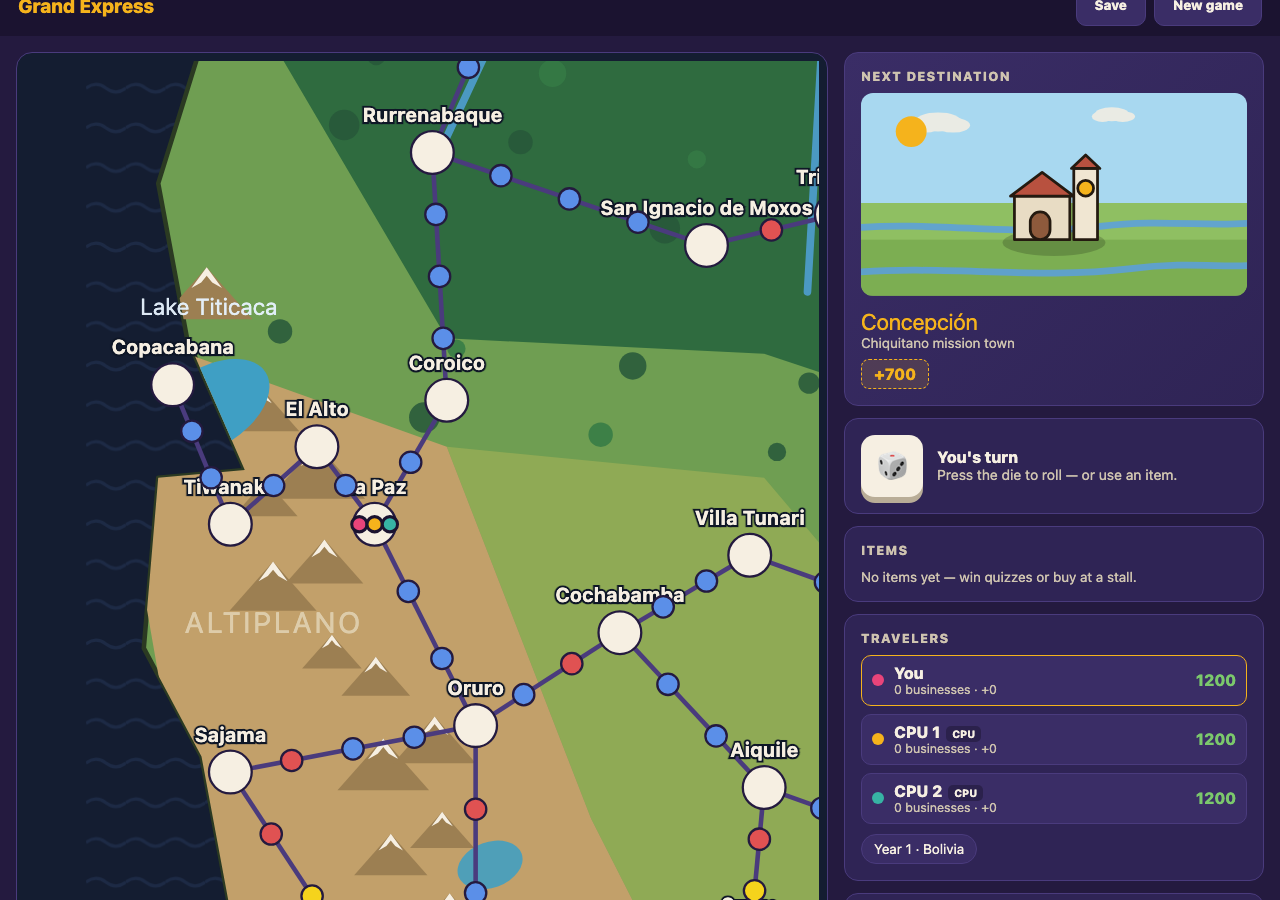
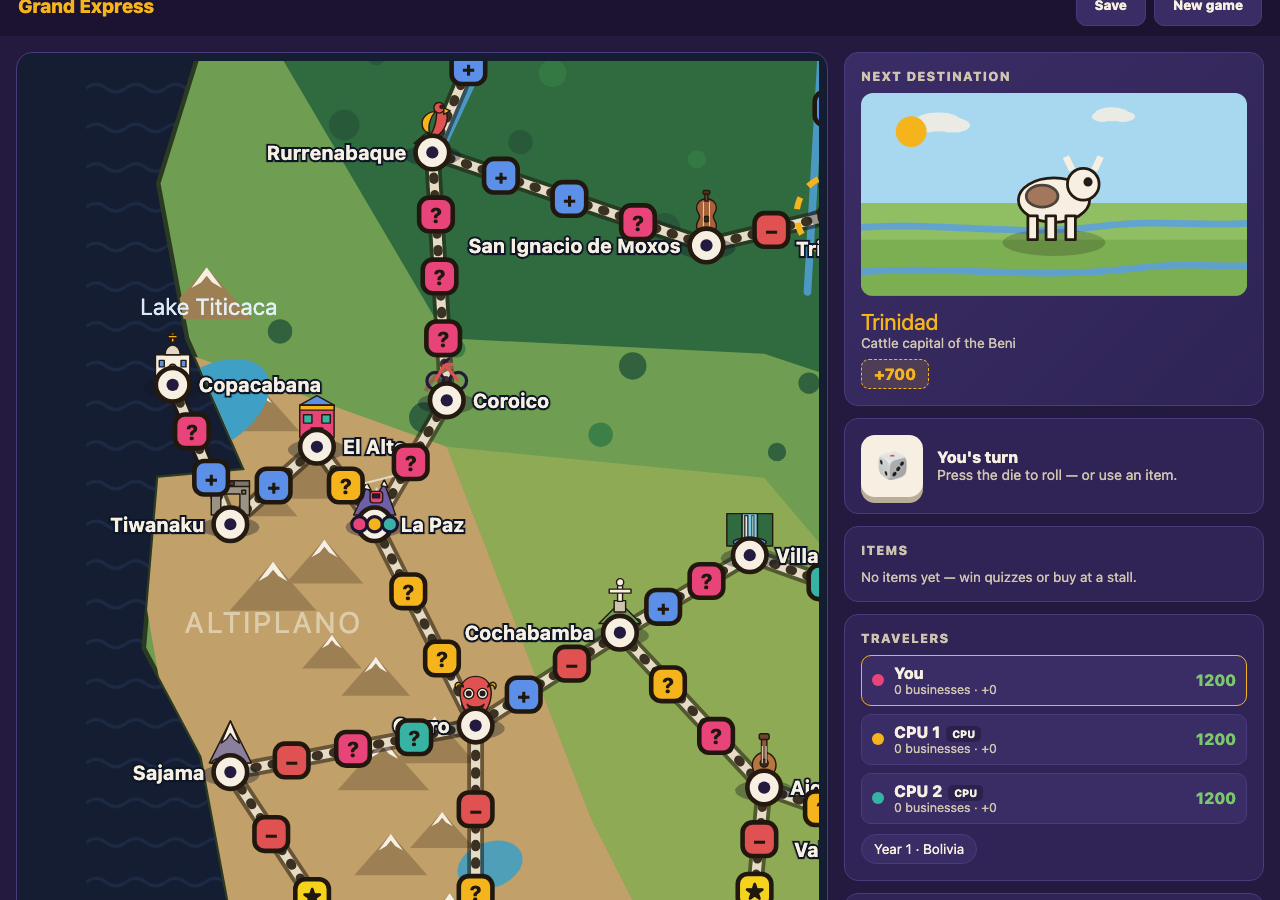
feat(presentation): 路線の3層描画と盤面上の都市シンボルを移植
Phase 8に残っていた盤面の細部をlegacyに合わせた。

- 路線: 暗い縁取り(#20180f, 11px, 透過.55)→明るいレール(#e6dcc6, 6px)→
  枕木のダッシュ(#3b3123, 6px, dasharray "1.5 10")の3層。legacyは路線1本ずつ
  3層を重ねるが、こちらは層ごとにまとめて描くことで、隣接する路線の縁取りが
  手前の路線を欠けさせないようにしている(合流点は都市のシンボルが上に載るため
  見た目の差は出ない)
- 都市ノード: 影の楕円→シンボル(marks を1.25倍)→円(r=11)→中心の点(r=4)→
  目的地リング→都市名ラベル。ラベルの左/右/下の出し分けのため City.labelPosition
  (legacyの city.lp)をスキーマ/ドメイン/マッパーに追加した
- 中間マス: 角丸の四角(22x22, rx=6.5)+記号(+ / − / ★ / ?)。クイズマスは
  難易度別の色(low=#37b3a4, mid=#f5b31c, high=#e8447a)

描画結果はスクリーンショットで目視確認し、docs/90-migration/assets/new-board.png を
更新した(枕木のあるレール、大聖堂・チョレット・ケーブルカー等の都市シンボル、
難易度別に色分けされたクイズマスがlegacy同様に出ることを確認)。

未実装: 盤面右下の凡例。

typecheck/lint/depcruise/vitest(201件)/playwright(12件)/next build すべて確認済み。

diff --git a/src/presentation/components/board/board-view.tsx b/src/presentation/components/board/board-view.tsx
@@ -3,6 +3,7 @@
 import { useEffect, useMemo, useState } from "react";
 import { NodeId } from "../../../domain/shared-kernel/ids";
 import { isCityNode } from "../../../domain/board/node";
+import { City } from "../../../domain/board/city";
 import { GameSession, currentPlayer } from "../../../domain/game-session/game-session";
 import { GameEngineContext } from "../../../application/game-engine-context";
 import { useBoardLayout } from "../../hooks/use-board-layout";
@@ -11,16 +12,24 @@ import { useLocale } from "../../i18n/locale-context";
 import { TerrainLayer } from "./terrain-layer";
 
 const PLAYER_COLORS = ["#e8447a", "#f5b31c", "#37b3a4", "#7bc86c"];
-const NODE_COLORS: Record<string, string> = {
-  city: "#f6efe2",
-  quiz: "#5b8fe8",
-  blue: "#5b8fe8",
-  red: "#e05252",
-  card: "#f5d31c",
-};
 
 /** 追尾時の視野幅(現行コードの `FOLLOW_W`)。 */
 const FOLLOW_WIDTH = 520;
+
+/** 路線の3層描画(現行コードの `drawBoard` のレール描画と同じ色・線幅)。 */
+const RAIL_LAYERS: readonly { stroke: string; width: number; dash?: string; opacity?: number }[] = [
+  { stroke: "#20180f", width: 11, opacity: 0.55 },
+  { stroke: "#e6dcc6", width: 6 },
+  { stroke: "#3b3123", width: 6, dash: "1.5 10" },
+];
+
+/** 中間マスの色と記号(現行コードの `SQUARE` / `TIER`)。 */
+const SQUARE_STYLES: Record<string, { color: string; glyph: string }> = {
+  blue: { color: "#5b8fe8", glyph: "+" },
+  red: { color: "#e05252", glyph: "−" },
+  card: { color: "#f5d31c", glyph: "★" },
+};
+const TIER_COLORS: Record<string, string> = { low: "#37b3a4", mid: "#f5b31c", high: "#e8447a" };
 
 export interface BoardViewProps {
   context: GameEngineContext;
@@ -78,9 +87,28 @@ export function BoardView({ context, session, reachable, onChooseNode }: BoardVi
     <div style={{ position: "relative" }}>
       <svg viewBox={viewBox} className="board-svg" role="img" aria-label="Game board">
         <TerrainLayer terrain={context.content.terrain} projection={context.content.projection} />
+        {/* 路線。legacyの `drawBoard` と同じく、暗い縁取り→明るいレール→枕木のダッシュ
+            という3層で描く。legacyは路線1本ずつ3層を重ねるが、ここでは層ごとに
+            まとめて描くことで、隣り合う路線の縁取りが手前の路線を欠けさせないようにしている
+            (都市の合流点は都市のシンボルが上に載るため見た目の差は出ない)。 */}
         <g className="edges">
-          {edges.map((line, i) => (
-            <line key={i} x1={line.x1} y1={line.y1} x2={line.x2} y2={line.y2} stroke="#4a3b7d" strokeWidth={3} />
+          {RAIL_LAYERS.map((layer, layerIndex) => (
+            <g key={layerIndex}>
+              {edges.map((line, i) => (
+                <line
+                  key={i}
+                  x1={line.x1}
+                  y1={line.y1}
+                  x2={line.x2}
+                  y2={line.y2}
+                  stroke={layer.stroke}
+                  strokeWidth={layer.width}
+                  strokeLinecap="round"
+                  strokeDasharray={layer.dash}
+                  opacity={layer.opacity}
+                />
+              ))}
+            </g>
           ))}
         </g>
         <g className="nodes">
@@ -89,7 +117,6 @@ export function BoardView({ context, session, reachable, onChooseNode }: BoardVi
             if (!pos) return null;
             const isDestination = isCityNode(node) && node.cityId === session.destination;
             const isChoosable = reachable?.has(id) ?? false;
-            const radius = isCityNode(node) ? 14 : 7;
             return (
               <g
                 key={id}
@@ -97,17 +124,16 @@ export function BoardView({ context, session, reachable, onChooseNode }: BoardVi
                 onClick={isChoosable ? () => onChooseNode?.(id) : undefined}
                 style={{ cursor: isChoosable ? "pointer" : "default" }}
               >
-                {isChoosable && <circle r={radius + 8} className="halo" fill="#f5b31c" opacity={0.6} />}
-                <circle
-                  r={radius}
-                  fill={NODE_COLORS[node.type] ?? "#888"}
-                  stroke={isDestination ? "#f5b31c" : "#241a3f"}
-                  strokeWidth={isDestination ? 4 : 1.5}
-                />
-                {isCityNode(node) && (
-                  <text y={-radius - 6} textAnchor="middle" className="city-label">
-                    {tx(context.getCity(node.cityId).name)}
-                  </text>
+                {isChoosable && <circle r={20} className="halo" fill="#f5b31c" opacity={0.6} />}
+                {isCityNode(node) ? (
+                  <CityMarker
+                    city={context.getCity(node.cityId)}
+                    glyphSvg={context.content.artGlyphs[context.getCity(node.cityId).artGlyphKey] ?? ""}
+                    label={tx(context.getCity(node.cityId).name)}
+                    isDestination={isDestination}
+                  />
+                ) : (
+                  <SquareMarker type={node.type} tier={node.type === "quiz" ? node.tier : undefined} />
                 )}
               </g>
             );
@@ -145,5 +171,71 @@ export function BoardView({ context, session, reachable, onChooseNode }: BoardVi
         🗺
       </button>
     </div>
+  );
+}
+
+/**
+ * 盤面上の都市マーカー(legacyの `drawBoard` の city ノード描画)。
+ * 影の楕円 → 都市のシンボル(1.25倍) → 円 → 中心の点 → 目的地リング → 都市名
+ * という重ね順・座標・色はlegacyと同じ。
+ */
+function CityMarker({
+  city,
+  glyphSvg,
+  label,
+  isDestination,
+}: {
+  city: City;
+  glyphSvg: string;
+  label: string;
+  isDestination: boolean;
+}) {
+  const scale = 1.25;
+  const glyphWidth = 24 * scale;
+  const labelX = city.labelPosition === "left" ? -17 : city.labelPosition === "right" ? 17 : 0;
+  const labelY = city.labelPosition === "bottom" ? 27 : 5;
+  const anchor = city.labelPosition === "left" ? "end" : city.labelPosition === "right" ? "start" : "middle";
+
+  return (
+    <>
+      <ellipse cx={0} cy={2} rx={19} ry={7} fill="#0e1626" opacity={0.35} />
+      <g
+        transform={`translate(${-glyphWidth / 2},${-6 - 24 * scale}) scale(${scale})`}
+        stroke="#241a10"
+        strokeWidth={0.75}
+        strokeLinejoin="round"
+        dangerouslySetInnerHTML={{ __html: glyphSvg }}
+      />
+      <circle r={11} fill="#f6efe2" stroke="#241a10" strokeWidth={3} />
+      <circle r={4} fill="#241a3f" />
+      {isDestination && (
+        <circle r={26} fill="none" stroke="#f5b31c" strokeWidth={4} strokeDasharray="8 9" className="dest-ring" />
+      )}
+      <text className="city-label" x={labelX} y={labelY} textAnchor={anchor}>
+        {label}
+      </text>
+    </>
+  );
+}
+
+/** 中間マス(クイズ/青/赤/カード)のマーカー(legacyの `SQUARE`/`TIER` の描画)。 */
+function SquareMarker({ type, tier }: { type: string; tier?: string }) {
+  const style = SQUARE_STYLES[type];
+  const color = type === "quiz" ? (TIER_COLORS[tier ?? "low"] ?? "#37b3a4") : (style?.color ?? "#888");
+  const glyph = type === "quiz" ? "?" : (style?.glyph ?? "");
+  return (
+    <>
+      <rect x={-11} y={-11} width={22} height={22} rx={6.5} fill={color} stroke="#20180f" strokeWidth={3} />
+      <text
+        y={5.5}
+        textAnchor="middle"
+        fontSize={type === "quiz" ? 14 : 13}
+        fontWeight={800}
+        fill="#20180f"
+        style={{ pointerEvents: "none" }}
+      >
+        {glyph}
+      </text>
+    </>
   );
 }

diff --git a/src/domain/board/city.ts b/src/domain/board/city.ts
@@ -21,6 +21,8 @@ export interface City {
   readonly artSceneKey: string;
   /** 都市イラストのシンボルのキー(現行コードの `city.mark`)。 */
   readonly artGlyphKey: string;
+  /** 盤面上の都市名ラベルの位置(現行コードの `city.lp`)。 */
+  readonly labelPosition: "left" | "right" | "bottom";
 }
 
 /** 都市間を結ぶ路線。 */

diff --git a/src/infrastructure/content/raw-content-schema.ts b/src/infrastructure/content/raw-content-schema.ts
@@ -26,6 +26,8 @@ const RawCitySchema = z.object({
   bg: z.string(),
   /** 都市イラストのシンボル(グリフ)のキー(`marks` の要素を指す)。 */
   mark: z.string(),
+  /** 盤面上の都市名ラベルの位置("l"=左 / "r"=右 / それ以外=下)。 */
+  lp: z.string().optional(),
 });
 
 const RawItemSchema = z.object({

diff --git a/src/domain/property/property-income-service.test.ts b/src/domain/property/property-income-service.test.ts
@@ -68,6 +68,7 @@ function city(id: string, regionId: string, props: Array<[number, number]>): Cit
     fact: sameForAllLocales(""),
     artSceneKey: "scene",
     artGlyphKey: "glyph",
+    labelPosition: "bottom" as const,
     properties: props.map(([cost, income]) => ({ name: sameForAllLocales("p"), cost, income })),
   };
 }

diff --git a/src/domain/cpu/cpu-city-strategy.test.ts b/src/domain/cpu/cpu-city-strategy.test.ts
@@ -30,6 +30,7 @@ function city(): City {
     fact: sameForAllLocales(""),
     artSceneKey: "scene",
     artGlyphKey: "glyph",
+    labelPosition: "bottom" as const,
     properties: [
       { name: sameForAllLocales("p0"), cost: 300, income: 40 },
       { name: sameForAllLocales("p1"), cost: 300, income: 40 },

diff --git a/src/infrastructure/content/country-content-mapper.ts b/src/infrastructure/content/country-content-mapper.ts
@@ -33,6 +33,7 @@ function mapCities(raw: RawCountryContent): City[] {
     properties: city.props.map((p) => ({ name: p.n, cost: p.cost, income: p.inc })),
     artSceneKey: city.bg,
     artGlyphKey: city.mark,
+    labelPosition: city.lp === "l" ? "left" : city.lp === "r" ? "right" : "bottom",
   }));
 }
 

diff --git a/src/domain/cpu/cpu-move-strategy.test.ts b/src/domain/cpu/cpu-move-strategy.test.ts
@@ -42,6 +42,7 @@ function city(id: string, cost: number): City {
     fact: sameForAllLocales(""),
     artSceneKey: "scene",
     artGlyphKey: "glyph",
+    labelPosition: "bottom" as const,
     properties: [{ name: sameForAllLocales("p"), cost, income: 10 }],
   };
 }

diff --git a/src/domain/board/board-graph-builder.test.ts b/src/domain/board/board-graph-builder.test.ts
@@ -21,6 +21,7 @@ function city(
     fact: sameForAllLocales(""),
     artSceneKey: "scene",
     artGlyphKey: "glyph",
+    labelPosition: "bottom" as const,
     properties: [],
   };
 }

diff --git a/docs/90-migration/03-as-built-status.md b/docs/90-migration/03-as-built-status.md
@@ -25,7 +25,7 @@ WBS([02-wbs.md](./02-wbs.md))の各フェーズに対する実際の実施結果
 
 | # | 完了の定義 | 状況 |
 |---|---|---|
-| 1 | 現行の全機能(2ヶ国・4言語・全アイテム/クイズ/季節イベント/厄災効果)が新アプリで再現できている | 🔶 **機能・音・ダイス演出はほぼ達成**: 2ヶ国の実データ(都市30・アイテム9・クイズ・季節12・厄災7)、4言語、全ゲームメカニクス(移動・売買・クイズ・アイテム効果・厄災・CPU)、legacyの音楽エンジン・3Dダイス物理演出をフル移植済み。**視覚面もほぼ達成**(都市の手描きイラスト・盤面の地形・国選択カードの地図をすべて移植済み。未実装は路線の3層描画と盤面上の都市シンボルのみ。ダイスの「タップして止める」インタラクションは省略し固定尺のアニメーションで代替) |
+| 1 | 現行の全機能(2ヶ国・4言語・全アイテム/クイズ/季節イベント/厄災効果)が新アプリで再現できている | 🔶 **機能・音・ダイス演出はほぼ達成**: 2ヶ国の実データ(都市30・アイテム9・クイズ・季節12・厄災7)、4言語、全ゲームメカニクス(移動・売買・クイズ・アイテム効果・厄災・CPU)、legacyの音楽エンジン・3Dダイス物理演出をフル移植済み。**視覚面もほぼ達成**(都市の手描きイラスト・盤面の地形・国選択カードの地図をすべて移植済み。未実装は盤面右下の凡例のみ。ダイスの「タップして止める」インタラクションは省略し固定尺のアニメーションで代替) |
 | 2 | Domain/Application層のユニットテストがカバレッジ目標を満たしている | ✅ 達成(Domain/Application共に目標超過、全体91%超) |
 | 3 | E2Eのクリティカルユーザージャーニーがすべてグリーン | 🔶 **12件のE2Eは全てグリーン**。ただしテスト戦略で列挙した8シナリオのうち、物件購入/クイズ正誤/独占達成/厄災発動/ゲーム終了の詳細シナリオは、真のE2E(Playwrightでの決定的な再現)ではなく**実データを使ったユニット/統合テスト**でカバーしている(理由: 本番の乱数注入はセキュリティ/保守性上のリスクがあるため導入を見送った。詳細はテストファイルのコメント参照)。実際の乱数を使った「稼働テスト」でこれらのマス種別を実際に踏むことは確認済み |
 | 4 | `legacy/grand-express.html` を参照しなくても新規機能追加ができる状態 | ✅ 達成(本ドキュメント一式・ADR・テストが仕様として機能する) |
@@ -59,6 +59,13 @@ WBS([02-wbs.md](./02-wbs.md))の各フェーズに対する実際の実施結果
 
 ## 既知のフォローアップ項目
 
+- ~~路線の3層描画と盤面上の都市ノードのシンボルが未実装~~ → **対応済み(2026-08-05)**。
+  路線は暗い縁取り→明るいレール→枕木のダッシュの3層(legacyは路線1本ずつ3層を重ねるが、
+  こちらは層ごとにまとめて描くことで隣接路線が手前の路線を欠けさせないようにしている。
+  合流点は都市のシンボルが上に載るため見た目の差は出ない)。都市ノードは影+シンボル+円+
+  中心の点+目的地リング+ラベル(`City.labelPosition` により左/右/下)、中間マスは
+  角丸の四角+記号(`+`/`−`/`★`/`?`、クイズは難易度別の色)で、いずれもlegacyと同じ
+  色・寸法で描く。**未実装**: 盤面右下の凡例。
 - ~~盤面の地形イラストと国選択カードの地図が未実装~~ → **対応済み(2026-08-05)**。
   `terrain-layer.tsx` が海+波模様・陸の落ち影・陸・地形・装飾・湖・河川・地名ラベルを
   legacyの `drawBoard()` と同じ重ね順・色・線幅で描く。盤面の装飾(`decor`)は

diff --git a/docs/90-migration/05-visual-comparison.md b/docs/90-migration/05-visual-comparison.md
@@ -40,6 +40,7 @@ Playwright(`playwright` はdevDependencyとして導入済み)でlegacyのファ
   ![new intro modal](./assets/new-intro-modal.png) のとおりで、legacyとほぼ同一。
 - legacyの盤面は都市ごとに手描きの地形イラストが敷かれ、都市アイコンも装飾的。新アプリは
   円形ノード+直線エッジの抽象的な表示(ADR-0007に記録済みの意図的な簡略化)。
+- 盤面の凡例(legacyが右下に置いている色と意味の一覧)は未実装。
 - 情報パネル(所持金・アイテム・ログ等)の情報量自体はほぼ同等(現在地、次の目的地、
   所持金、アイテム、プレイヤー一覧、ログ)。新アプリの方がパネルの余白が広くフラットな
   カードデザインで、legacyの方が装飾(区切り線・アイコン・グラデーション)が多い。
@@ -56,8 +57,10 @@ Playwright(`playwright` はdevDependencyとして導入済み)でlegacyのファ
   同じ描画を抽出時に生成し、軽量インデックス(`country-index.json`)にSVG文字列として
   持たせた(地形データ本体を読み込まずに描画できる。インデックスは約1KB→約9KB)。
 - ヘッダーの装飾(虹色の帯、ロゴのサブタイトル)を追加するかどうか。
-- 路線(レール)の3層描画(枕木のダッシュ表現)と、盤面上の都市ノードのシンボル表示は未実装
-  (現状は単色の円+ラベル)。これらも同じくlegacyの `drawBoard()` に定義がある。
+- ~~路線(レール)の3層描画と盤面上の都市ノードのシンボル表示~~ → **対応済み(2026-08-05)**。
+  路線は暗い縁取り→明るいレール→枕木のダッシュの3層、都市ノードは影+シンボル+円+
+  中心の点+目的地リング+ラベル(左/右/下の位置指定つき)、中間マスは角丸の四角+記号
+  (`+`/`−`/`★`/`?`、クイズは難易度別の色)で、いずれもlegacyと同じ色・寸法で描画する。
 
 ## 4. 都市イラストの移植(2026-08-05 対応済み)
 
@@ -83,4 +86,5 @@ Playwright(`playwright` はdevDependencyとして導入済み)でlegacyのファ
   可視化する目的でスクリーンショット比較を実施)。
 - 2026-08-05: 都市イラストの移植を完了し、「3」「4」を更新。
 - 2026-08-05: 盤面の地形レイヤーと国選択カードの地図も移植し、「3」を更新。
+- 2026-08-05: 路線の3層描画・都市ノードのシンボル・中間マスの記号も移植。
   最新の描画結果は `assets/new-board.png` / `assets/new-setup.png` を参照。

diff --git a/docs/README.md b/docs/README.md
@@ -27,4 +27,4 @@
 
 - **元の課題**: 1ファイルにゲームロジック・DOM操作・描画・音声・翻訳文字列・保存処理・コンテンツデータ(都市/クイズ/アイテム)が全部同居しており、保守性が低く、LLMに1タスク依頼するたびにファイル全体(385KB)をコンテキストに読ませる必要があり、トークン消費が非常に大きかった。
 - **狙い**: ドメインロジックを純粋なTypeScriptの Domain 層に切り出し、責務ごとに小さなファイル(目安200〜300行)に分割することで、①保守性を上げる ②テストを書けるようにする ③LLMに変更を依頼するときに読み込む範囲を最小化してトークン消費を大きく削減する。
-- **現状**: Domain/Application/Infrastructure/Presentationの全層を実装し、実際にプレイできる状態まで完了(ユニット/コンポーネントテスト201件・E2Eテスト12件がグリーン)。バンドルサイズ改善、音楽エンジン・3Dダイス演出・各種モーダル(出発ストーリー/月替わりイベント/次の区間の案内)・都市イラスト/盤面の地形/国地図の移植など仕上げも完了。残るのは本番デプロイ(ブラウザ認証を要するオーナー操作待ち)と、細部のビジュアル仕上げ(路線の3層描画・盤面上の都市シンボル)のみ。詳細は [as-built](./90-migration/03-as-built-status.md) を参照。
+- **現状**: Domain/Application/Infrastructure/Presentationの全層を実装し、実際にプレイできる状態まで完了(ユニット/コンポーネントテスト201件・E2Eテスト12件がグリーン)。バンドルサイズ改善、音楽エンジン・3Dダイス演出・各種モーダル(出発ストーリー/月替わりイベント/次の区間の案内)・都市イラスト/盤面の地形/国地図の移植など仕上げも完了。残るのは本番デプロイ(ブラウザ認証を要するオーナー操作待ち)と、盤面右下の凡例のみ。詳細は [as-built](./90-migration/03-as-built-status.md) を参照。
